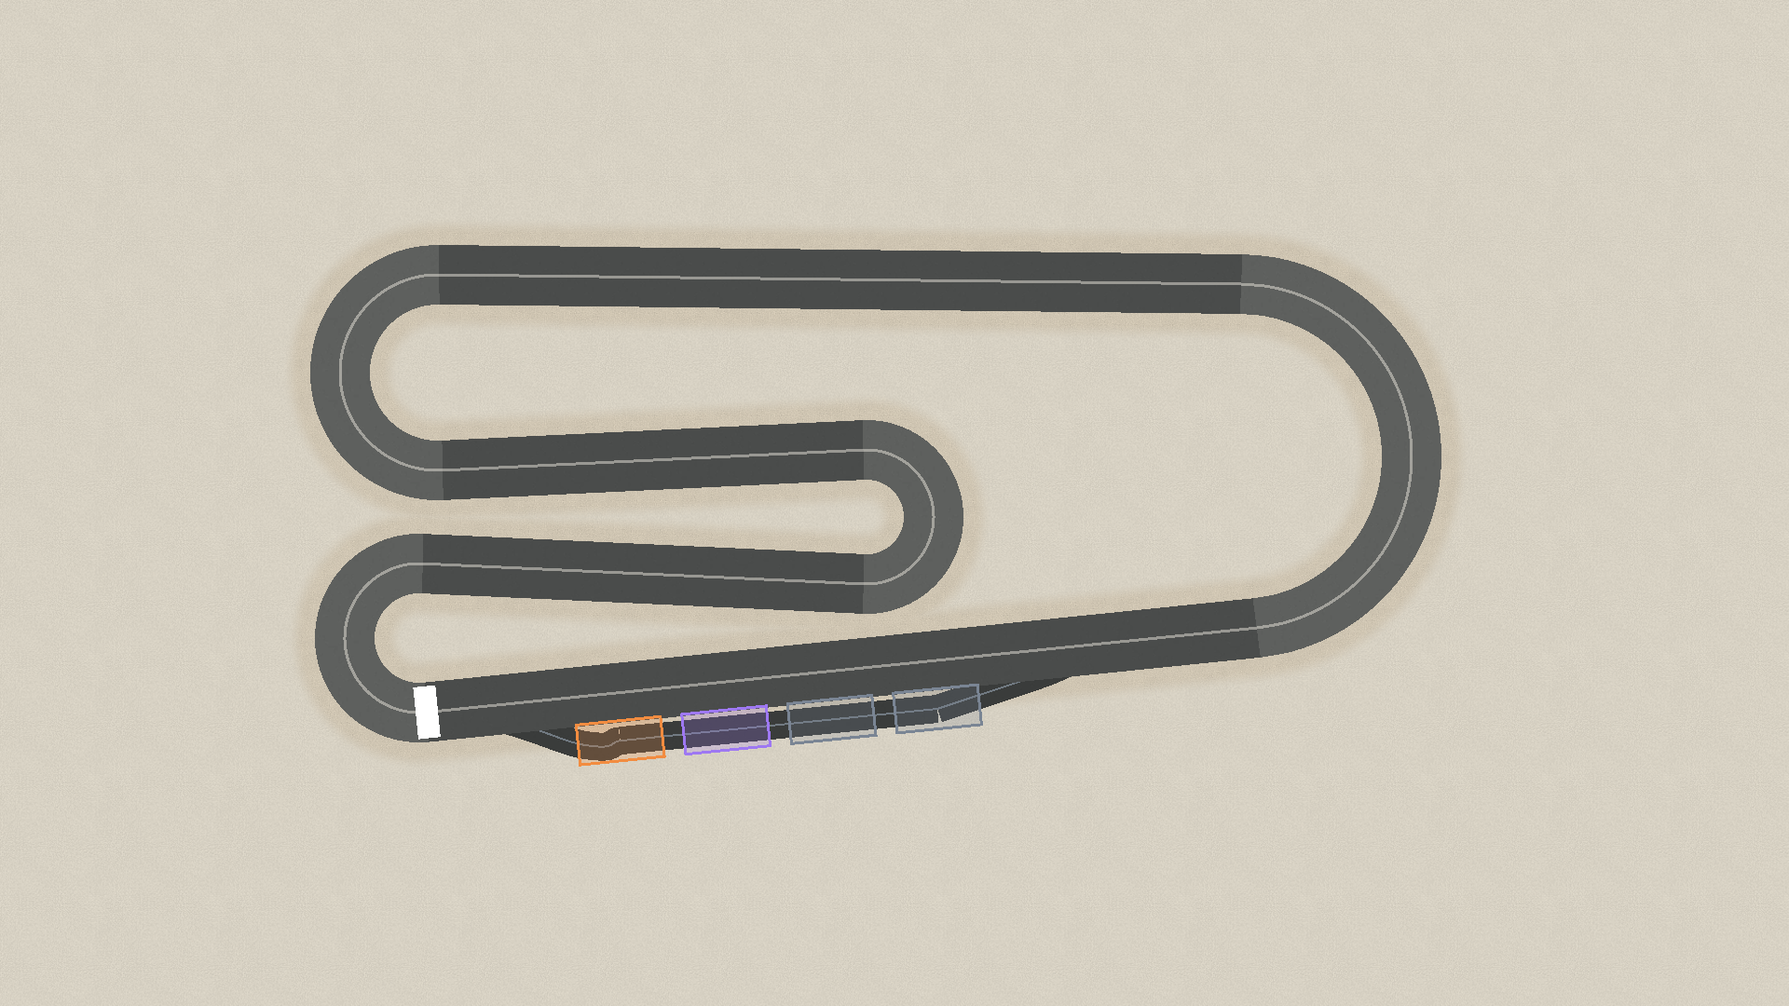
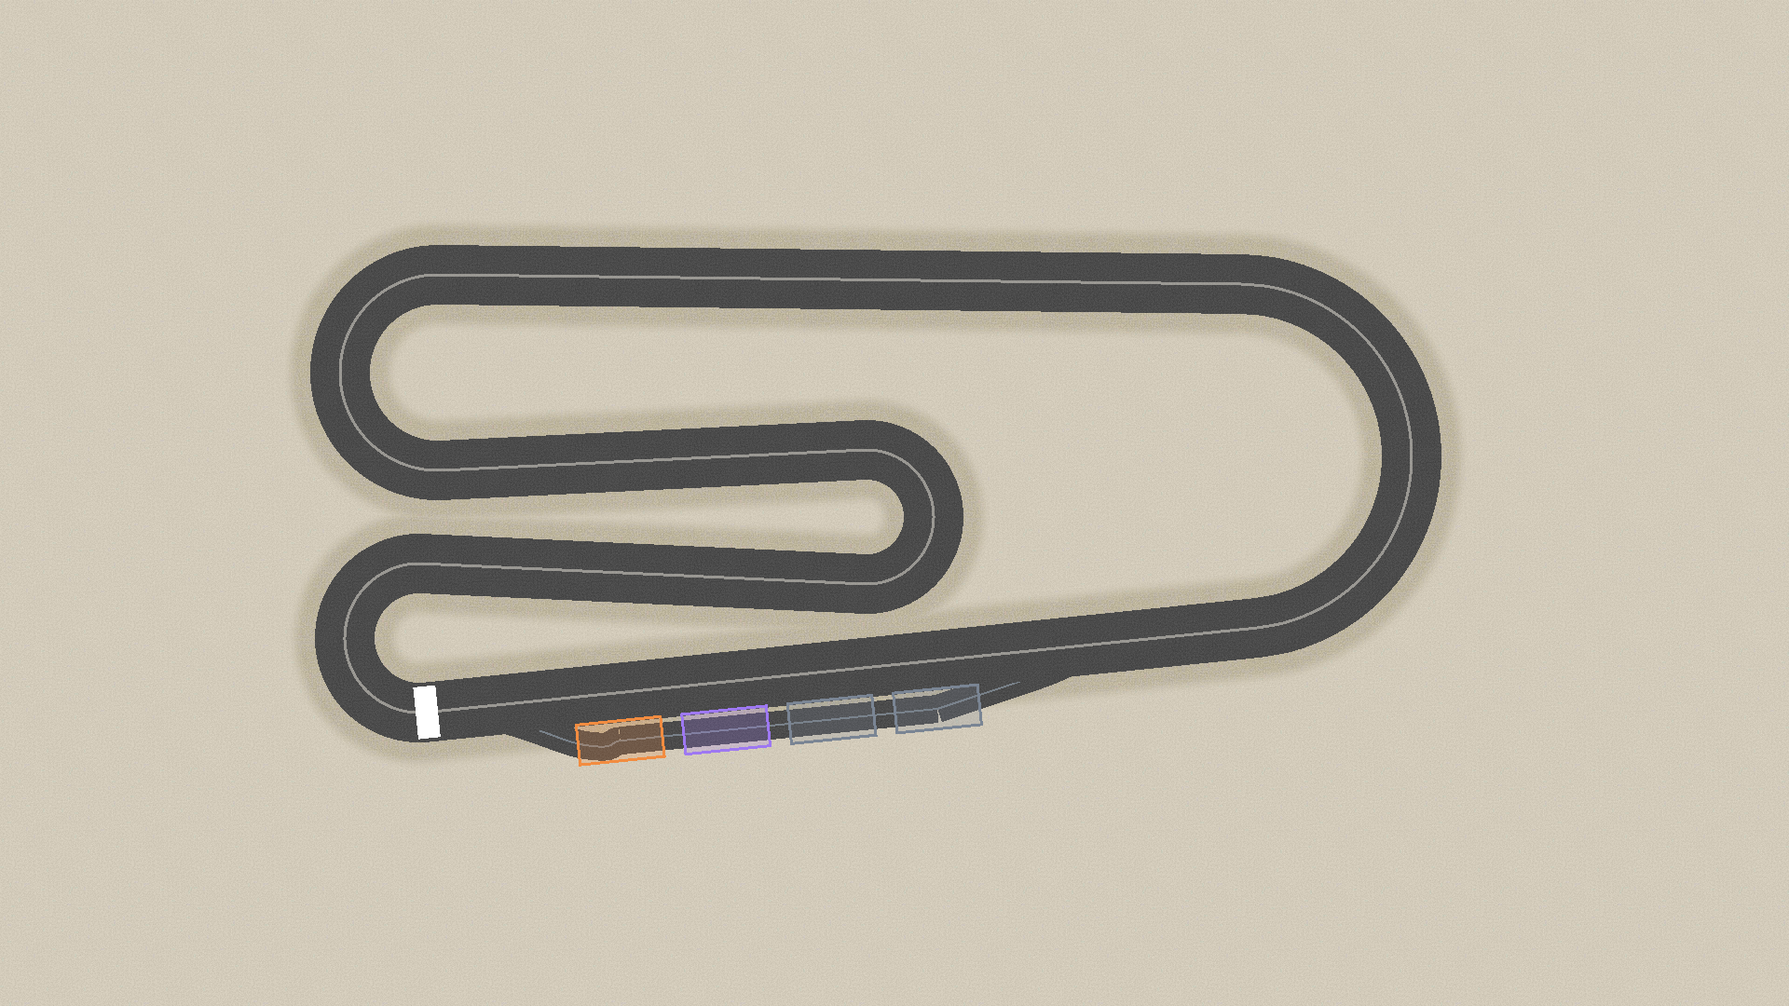
Give the detail tiles their own colour
Measured on the themed capture, the neutral-grain model delivered 10.3 levels
of variation to the ground and 1.0 to the road -- invisible. The cause was the
combine, not the art: multiplying a flat vertex colour by detail couples
absolute grain to base brightness, so a dark surface cannot receive much of it
however hard the tile is authored. The road tile in fact carried more amplitude
than the ground tile and still lost by ten times.

Colour therefore lives in the art now. A dark asphalt is authored with the
contrast it needs, and hue can vary at all -- greyscale times a colour can only
ever vary value, while real aggregate varies in hue. The per-surface tint is
retained as a grade on top rather than the colour source, and defaults to white:
pit lane and corners share the road tile ungraded, so every road-family surface
reads identically. That flat baseline is deliberate, so the raw assets can be
judged before any grading is layered on.

An unbound sampler reads white, which under the new combine would blow a surface
out rather than leave it alone. The shader is therefore told per surface whether
a tile exists and falls back to flat vertex colour where one does not, so a
partial theme degrades sensibly instead of catastrophically.

Source resolution now tracks tile size. The tiles were 256 px shown across 88 to
130 reference pixels -- a downscale, so the GPU picked a lower mip and averaged
the authored grain away: 13 levels became 5 on the ground, and the hue variation
[…]

diff --git a/Assets/BoardRacing/Runtime/RaceSurface.cs b/Assets/BoardRacing/Runtime/RaceSurface.cs
@@ -35,9 +35,13 @@ namespace BoardRacing.Runtime
         public static readonly SurfaceDetail Ground = new SurfaceDetail(0f, 0f, 1f);
         public static readonly SurfaceDetail Road = new SurfaceDetail(1f, 0f, 1f);
 
-        // Recorded mapping compromise (#161): the pit surface samples the road
-        // detail texture and is distinguished by its own tint, rather than
-        // spending a fourth sampler on a surface that is asphalt either way.
+        // The pit surface shares the road tile ungraded, so it is currently
+        // indistinguishable from the roadway while textured — a deliberate flat
+        // baseline for judging the raw assets (#161). Sharing a tile also keeps
+        // the grain flowing across the boundary, which reads as wear; giving
+        // pit its own tile would break the pattern there and read as a
+        // different material instead. Which of those is wanted is a call for
+        // the Board review.
         public static readonly SurfaceDetail PitSurface = Road;
 
         public static SurfaceDetail Shoulder(float weight) =>
@@ -211,7 +215,13 @@ namespace BoardRacing.Runtime
         [Min(1f)] public float GroundDetailTile;
         [Min(1f)] public float RoadDetailTile;
         [Min(1f)] public float ShoulderDetailTile;
-        [Range(0f, 2f)] public float DetailStrength;
+        // Grades on top of the authored tile color, not the color source.
+        // White is the baseline; pit lane and corners currently share the road
+        // tile ungraded so every road-family surface reads identically.
+        public Color GroundDetailTint;
+        public Color RoadDetailTint;
+        public Color ShoulderDetailTint;
+        [Range(0f, 1f)] public float DetailStrength;
 
         public static RaceSurfaceStyle Default => new RaceSurfaceStyle
         {
@@ -233,9 +243,15 @@ namespace BoardRacing.Runtime
             StripeVisible = true,
             PitSurfaceVisible = true,
             DebugView = RaceSurfaceDebugView.Composed,
-            GroundDetailTile = 130f,
-            RoadDetailTile = 88f,
-            ShoulderDetailTile = 110f,
+            // 1:1 with the 128 px source tiles. A tile shown smaller than its
+            // source is a downscale, and the mip that results averages the
+            // authored grain away — see Presentation/PROVENANCE.md.
+            GroundDetailTile = 128f,
+            RoadDetailTile = 128f,
+            ShoulderDetailTile = 128f,
+            GroundDetailTint = Color.white,
+            RoadDetailTint = Color.white,
+            ShoulderDetailTint = Color.white,
             // The committed default stays flat and textureless: the theme asset
             // is what opts a build into detail, so Default remains the
             // deterministic fallback the gallery captures compare against.
@@ -834,6 +850,12 @@ namespace BoardRacing.Runtime
         private static readonly int GroundTileId = Shader.PropertyToID("_GroundTile");
         private static readonly int RoadTileId = Shader.PropertyToID("_RoadTile");
         private static readonly int ShoulderTileId = Shader.PropertyToID("_ShoulderTile");
+        private static readonly int GroundTintId = Shader.PropertyToID("_GroundTint");
+        private static readonly int RoadTintId = Shader.PropertyToID("_RoadTint");
+        private static readonly int ShoulderTintId = Shader.PropertyToID("_ShoulderTint");
+        private static readonly int GroundOnId = Shader.PropertyToID("_GroundOn");
+        private static readonly int RoadOnId = Shader.PropertyToID("_RoadOn");
+        private static readonly int ShoulderOnId = Shader.PropertyToID("_ShoulderOn");
         private static readonly int DetailStrengthId = Shader.PropertyToID("_DetailStrength");
 
         private Material material;
@@ -922,16 +944,23 @@ namespace BoardRacing.Runtime
         {
             surfaceCamera.backgroundColor = style.GroundColor;
             if (material == null || !material.HasProperty(DetailStrengthId)) return;
-            // Mid grey, not the default white, for an unbound slot: the shader
-            // modulates by detail * 2, so grey is the identity and an unassigned
-            // texture leaves its surface exactly as flat as before.
-            material.SetTexture(GroundTexId, style.GroundDetail ?? Texture2D.grayTexture);
-            material.SetTexture(RoadTexId, style.RoadDetail ?? Texture2D.grayTexture);
-            material.SetTexture(ShoulderTexId, style.ShoulderDetail ?? Texture2D.grayTexture);
+            // The tiles carry color now, so an unbound slot cannot be made a
+            // no-op by binding a neutral texture: the shader is told per surface
+            // whether a tile exists and falls back to flat vertex color where
+            // one does not.
+            material.SetTexture(GroundTexId, style.GroundDetail ?? Texture2D.whiteTexture);
+            material.SetTexture(RoadTexId, style.RoadDetail ?? Texture2D.whiteTexture);
+            material.SetTexture(ShoulderTexId, style.ShoulderDetail ?? Texture2D.whiteTexture);
+            material.SetFloat(GroundOnId, style.GroundDetail != null ? 1f : 0f);
+            material.SetFloat(RoadOnId, style.RoadDetail != null ? 1f : 0f);
+            material.SetFloat(ShoulderOnId, style.ShoulderDetail != null ? 1f : 0f);
+            material.SetColor(GroundTintId, style.GroundDetailTint);
+            material.SetColor(RoadTintId, style.RoadDetailTint);
+            material.SetColor(ShoulderTintId, style.ShoulderDetailTint);
             material.SetFloat(GroundTileId, Mathf.Max(1f, style.GroundDetailTile));
             material.SetFloat(RoadTileId, Mathf.Max(1f, style.RoadDetailTile));
             material.SetFloat(ShoulderTileId, Mathf.Max(1f, style.ShoulderDetailTile));
-            material.SetFloat(DetailStrengthId, Mathf.Max(0f, style.DetailStrength));
+            material.SetFloat(DetailStrengthId, Mathf.Clamp01(style.DetailStrength));
         }
 
         public void AttachCar(PlayerId playerId, SurfaceMeshData body)

diff --git a/tools/generate_course_fpo_textures.py b/tools/generate_course_fpo_textures.py
@@ -6,11 +6,16 @@ filtering, and device performance for the approved Quarry direction (#162)
 before the project decides whether final textures are generated, commissioned,
 purchased, photographed, or drawn.
 
-They are neutral grain maps centred on mid grey, not coloured surfaces. The
-CourseSurface shader modulates the authored vertex colour by (detail * 2), so
-a flat 0.5 tile is a no-op and the theme's colours remain the thing that
-decides what a surface looks like. Keeping the tiles neutral is also what lets
-one texture be swapped without touching the palette.
+The tiles carry their own colour. An earlier revision kept them neutral and let
+the shader modulate a theme colour by them, which coupled absolute grain to base
+brightness: the road, being dark, received a tenth of the ground's variation
+from a tile authored with more amplitude, and read as flat. Authoring colour
+here means a dark asphalt gets the contrast it actually needs, and means hue can
+vary at all — greyscale times a colour can only ever vary value, and real
+aggregate varies in hue.
+
+Amplitudes below are therefore absolute 0-255 levels, not fractions of some base
+colour, and are per channel so flecks can lean warm or cool independently.
 
 Seamlessness is structural rather than fixed up afterwards: every blur is a
 wrap-around convolution (np.roll), so opposite edges are already continuous.
@@ -25,7 +30,12 @@ import pathlib
 import numpy as np
 from PIL import Image
 
-SIZE = 256
+# Source resolution tracks the tile's world size on purpose. A 256 px tile
+# shown across 130 reference pixels is a 2x downscale, so the GPU picks a
+# lower mip and averages the fine grain away -- measured, that cost the
+# ground 13 authored levels down to 5 on screen and erased the hue variation
+# entirely. At 1:1 the authored amplitude is what reaches the panel.
+SIZE = 128
 OUT = (pathlib.Path(__file__).resolve().parent.parent
        / "Assets/BoardRacing/Presentation/CourseSurface/Textures")
 
@@ -47,43 +57,63 @@ def normalised(field):
     return field / peak if peak > 1e-6 else field
 
 
-def grain(seed, fine, coarse, coarse_radius):
-    """Fine speckle plus low-frequency mottling, both zero-centred."""
-    rng = np.random.default_rng(seed)
+def speckle(rng):
     noise = rng.random((SIZE, SIZE)).astype(np.float32)
-    speckle = normalised(noise - wrap_blur(noise, 1))
-    field = speckle * fine
-    if coarse > 0:
-        blobs = rng.random((SIZE, SIZE)).astype(np.float32)
-        field = field + normalised(wrap_blur(blobs, coarse_radius) - 0.5) * coarse
-    return field
+    return normalised(noise - wrap_blur(noise, 1))
 
 
-def write(name, field):
-    grey = np.clip(0.5 + field, 0.0, 1.0) * 255.0
-    rgb = np.repeat(grey.astype(np.uint8)[:, :, None], 3, axis=2)
+def mottle(rng, radius):
+    blobs = rng.random((SIZE, SIZE)).astype(np.float32)
+    return normalised(wrap_blur(blobs, radius) - 0.5)
+
+
+def hexrgb(value):
+    value = value.lstrip("#")
+    return np.array([int(value[i:i + 2], 16) for i in (0, 2, 4)], dtype=np.float32)
+
+
+def tile(base, fine, coarse, coarse_radius, warm, seed):
+    """base colour + achromatic grain + an independent warm/cool hue drift."""
+    rng = np.random.default_rng(seed)
+    value = speckle(rng) * fine + mottle(rng, coarse_radius) * coarse
+    # A second, lower-frequency field pushes red up and blue down (or the
+    # reverse) so the surface varies in hue and not only in value.
+    hue = mottle(rng, coarse_radius * 2) * warm
+
+    rgb = np.repeat(base[None, None, :], SIZE, 0).repeat(SIZE, 1).copy()
+    rgb += value[:, :, None]
+    rgb[:, :, 0] += hue
+    rgb[:, :, 2] -= hue
+    return Image.fromarray(np.clip(rgb, 0, 255).astype(np.uint8))
+
+
+def write(name, image):
     path = OUT / name
-    Image.fromarray(rgb).save(path, "PNG")
-    span = grey.max() - grey.min()
-    print(f"{name}: {SIZE}x{SIZE}, level span {span:.0f}/255")
+    image.save(path, "PNG")
+    a = np.asarray(image).astype(float)
+    lum = a.mean(axis=2)
+    span = np.percentile(lum, 95) - np.percentile(lum, 5)
+    hue = (a.max(axis=2) - a.min(axis=2)).std()
+    print(f"{name:38s} mean {lum.mean():5.1f}  p5-p95 {span:4.1f} levels  "
+          f"hue-var {hue:4.2f}")
 
 
 TILES = {
-    # Limestone dust: fine and quiet. The ground is most of the board, so its
-    # grain has to survive being looked at without becoming noise.
-    "FPO_CourseGround_Limestone.png": dict(seed=11, fine=0.055, coarse=0.030,
-                                           coarse_radius=8),
-    # Dry slate asphalt: coarser aggregate, read at 88 px so roughly two
-    # repeats span the 64 px road.
-    "FPO_CourseRoad_Slate.png": dict(seed=12, fine=0.075, coarse=0.026,
-                                     coarse_radius=6),
-    # Gravel runoff: the coarsest of the three, so the shoulder still reads as
+    # Limestone dust. The ground is most of the board, so its grain has to
+    # survive being looked at without becoming noise.
+    "FPO_CourseGround_Limestone.png": dict(
+        base=hexrgb("#D2CCBD"), fine=9.0, coarse=6.0, coarse_radius=5, warm=4.0, seed=11),
+    # Dry slate asphalt, authored dark with its own contrast rather than
+    # relying on a tint to supply it.
+    "FPO_CourseRoad_Slate.png": dict(
+        base=hexrgb("#4A4C4B"), fine=11.0, coarse=7.0, coarse_radius=4, warm=3.0, seed=12),
+    # Gravel runoff, the coarsest of the three, so the shoulder still reads as
     # a different material where it meets the road edge.
-    "FPO_CourseShoulder_Gravel.png": dict(seed=31, fine=0.090, coarse=0.045,
-                                          coarse_radius=5),
+    "FPO_CourseShoulder_Gravel.png": dict(
+        base=hexrgb("#BFB5A1"), fine=14.0, coarse=10.0, coarse_radius=3, warm=6.0, seed=31),
 }
 
 if __name__ == "__main__":
     OUT.mkdir(parents=True, exist_ok=True)
     for name, spec in TILES.items():
-        write(name, grain(**spec))
+        write(name, tile(**spec))

diff --git a/Assets/BoardRacing/Tests/RaceSurfaceGeometryTests.cs b/Assets/BoardRacing/Tests/RaceSurfaceGeometryTests.cs
@@ -622,9 +622,9 @@ namespace BoardRacing.Tests
         private static RaceSurfaceStyle TexturedStyle()
         {
             RaceSurfaceStyle style = RaceSurfaceStyle.Default;
-            style.GroundDetail = Texture2D.grayTexture;
-            style.RoadDetail = Texture2D.grayTexture;
-            style.ShoulderDetail = Texture2D.grayTexture;
+            style.GroundDetail = Texture2D.whiteTexture;
+            style.RoadDetail = Texture2D.whiteTexture;
+            style.ShoulderDetail = Texture2D.whiteTexture;
             style.DetailStrength = 1f;
             return style;
         }
@@ -739,7 +739,7 @@ namespace BoardRacing.Tests
         {
             RaceSurfaceStyle before = TexturedStyle();
             RaceSurfaceStyle after = TexturedStyle();
-            after.RoadDetail = Texture2D.whiteTexture;
+            after.RoadDetail = Texture2D.blackTexture;
             after.RoadDetailTile = before.RoadDetailTile * 2f;
 
             SurfaceMeshData a = RaceSurfaceGeometry.Build(
@@ -748,8 +748,10 @@ namespace BoardRacing.Tests
                 Track, PitLayout(), new[] { Color.red, Color.blue }, after);
 
             // The swap test #161 asks for: a texture reference changes what the
-            // course looks like without moving a vertex or altering a colour,
-            // because tiling is resolved in the shader from world position.
+            // course looks like without moving a vertex or altering a vertex
+            // colour, because both tiling and the surface colour are resolved in
+            // the shader. Since #161's coloured-tile revision the swap changes
+            // colour too, so this pins the mesh, not the appearance.
             Assert.That(b.Vertices, Is.EqualTo(a.Vertices));
             Assert.That(b.Colors, Is.EqualTo(a.Colors));
             Assert.That(b.Details, Is.EqualTo(a.Details));
@@ -766,6 +768,11 @@ namespace BoardRacing.Tests
             Assert.That(flat.RoadDetail, Is.Null);
             Assert.That(flat.ShoulderDetail, Is.Null);
             Assert.That(flat.DetailStrength, Is.EqualTo(0f));
+            // Tints are grades on top of authored tile colour, so the baseline
+            // is white: pit lane and corners share the road tile ungraded.
+            Assert.That(flat.GroundDetailTint, Is.EqualTo(Color.white));
+            Assert.That(flat.RoadDetailTint, Is.EqualTo(Color.white));
+            Assert.That(flat.ShoulderDetailTint, Is.EqualTo(Color.white));
 
             SurfaceMeshData mesh = RaceSurfaceGeometry.Build(
                 Track, PitLayout(), new[] { Color.red, Color.blue }, flat);

diff --git a/Assets/BoardRacing/Runtime/CourseSurfaceTheme.cs b/Assets/BoardRacing/Runtime/CourseSurfaceTheme.cs
@@ -30,13 +30,13 @@ namespace BoardRacing.Runtime
         [Header("Ground")]
         public Color groundColor = RaceSurfaceGeometry.BackgroundColor;
         public Texture2D groundDetail;
-        [Min(1f)] public float groundDetailTile = 130f;
+        [Min(1f)] public float groundDetailTile = 128f;
 
         [Header("Road")]
         public Color straightRoadColor = RaceSurfaceGeometry.StraightColor;
         public Color cornerRoadColor = RaceSurfaceGeometry.CornerColor;
         public Texture2D roadDetail;
-        [Min(1f)] public float roadDetailTile = 88f;
+        [Min(1f)] public float roadDetailTile = 128f;
 
         [Header("Shoulder")]
         public Color shoulderColor = new Color(.28f, .24f, .18f, 1f);
@@ -44,7 +44,7 @@ namespace BoardRacing.Runtime
         [Min(0f)] public float shoulderSolidWidth = 12f;
         [Min(0f)] public float shoulderFeatherWidth = 24f;
         public Texture2D shoulderDetail;
-        [Min(1f)] public float shoulderDetailTile = 110f;
+        [Min(1f)] public float shoulderDetailTile = 128f;
 
         // The pit surface samples the road detail texture and is separated by
         // tint alone — a recorded mapping compromise (#161) rather than a
@@ -58,8 +58,14 @@ namespace BoardRacing.Runtime
         public Color stripeColor = RaceSurfaceGeometry.StripeColor;
         public Color crossingShadowColor = RaceSurfaceGeometry.CrossingShadowColor;
 
+        // Grades on top of the authored tile colors. White is the baseline —
+        // pit lane and corners share the road tile ungraded for now, so the raw
+        // assets can be judged before any grading is layered on.
         [Header("Detail")]
-        [Range(0f, 2f)] public float detailStrength = 1f;
+        public Color groundDetailTint = Color.white;
+        public Color roadDetailTint = Color.white;
+        public Color shoulderDetailTint = Color.white;
+        [Range(0f, 1f)] public float detailStrength = 1f;
 
         public static CourseSurfaceTheme Load() =>
             Resources.Load<CourseSurfaceTheme>(ResourcePath);
@@ -90,6 +96,9 @@ namespace BoardRacing.Runtime
             style.GroundDetailTile = groundDetailTile;
             style.RoadDetailTile = roadDetailTile;
             style.ShoulderDetailTile = shoulderDetailTile;
+            style.GroundDetailTint = groundDetailTint;
+            style.RoadDetailTint = roadDetailTint;
+            style.ShoulderDetailTint = shoulderDetailTint;
             style.DetailStrength = detailStrength;
             return style;
         }

diff --git a/Assets/BoardRacing/Tests/CourseSurfaceComposerTests.cs b/Assets/BoardRacing/Tests/CourseSurfaceComposerTests.cs
@@ -41,10 +41,11 @@ namespace BoardRacing.Tests
             Assert.That(style.ShoulderOpacity, Is.EqualTo(.1f).Within(.001f));
             Assert.That(style.ShoulderSolidWidth, Is.EqualTo(16f));
             Assert.That(style.ShoulderFeatherWidth, Is.EqualTo(28f));
-            // Tile sizes are reference pixels: 130/88/110 committed, stepped 16.
-            Assert.That(style.GroundDetailTile, Is.EqualTo(146f));
-            Assert.That(style.RoadDetailTile, Is.EqualTo(72f));
-            Assert.That(style.ShoulderDetailTile, Is.EqualTo(126f));
+            // Tile sizes are reference pixels. The committed baseline is 128
+            // for all three — 1:1 with the 128 px source tiles — stepped by 16.
+            Assert.That(style.GroundDetailTile, Is.EqualTo(144f));
+            Assert.That(style.RoadDetailTile, Is.EqualTo(112f));
+            Assert.That(style.ShoulderDetailTile, Is.EqualTo(144f));
             Assert.That(style.StripeVisible, Is.False);
             Assert.That(style.PitSurfaceVisible, Is.False);
             Assert.That(style.DebugView, Is.EqualTo(RaceSurfaceDebugView.ShoulderOnly));
@@ -137,7 +138,7 @@ namespace BoardRacing.Tests
             committed.GroundDetail = Texture2D.grayTexture;
             committed.RoadDetail = Texture2D.grayTexture;
             committed.DetailStrength = 1f;
-            committed.GroundDetailTile = 130f;
+            committed.GroundDetailTile = 128f;
             committed.ShoulderOpacity = 1f;
 
             RaceSurfaceStyle last = default;
@@ -148,11 +149,11 @@ namespace BoardRacing.Tests
             panel.CreateContent(holder.GetComponent<RectTransform>());
 
             panel.HandlePress(CourseSurfaceComposerPanel.ReferencePlusBounds(4).center);
-            Assert.That(last.GroundDetailTile, Is.EqualTo(146f), "tile step should apply");
+            Assert.That(last.GroundDetailTile, Is.EqualTo(144f), "tile step should apply");
 
             panel.HandlePress(CourseSurfaceComposerPanel.ReferenceResetBounds.center);
 
-            Assert.That(last.GroundDetailTile, Is.EqualTo(130f));
+            Assert.That(last.GroundDetailTile, Is.EqualTo(128f));
             Assert.That(last.DetailStrength, Is.EqualTo(1f));
             Assert.That(last.ShoulderOpacity, Is.EqualTo(1f));
             Assert.That(last.GroundDetail, Is.Not.Null,

diff --git a/Assets/BoardRacing/Presentation/PROVENANCE.md b/Assets/BoardRacing/Presentation/PROVENANCE.md
@@ -34,16 +34,28 @@ so every tile is reproducible from the repository alone:
 python3 tools/generate_course_fpo_textures.py
 ```
 
-## Why the tiles are grey
+## Why the tiles carry their own colour
 
-They are neutral grain maps centred on mid grey, not coloured surfaces. The
-shader modulates the authored vertex colour by `detail * 2`, so a flat 0.5 tile
-is a no-op and the theme's colours stay the thing that decides what a surface
-looks like.
+An earlier revision kept them neutral and let the shader modulate a theme colour
+by them. Measured on the themed capture, that delivered 10.3 levels of variation
+to the ground and **1.0 level** to the road — invisible — because the combine was
+multiplicative and absolute grain therefore scaled with base brightness. The road
+tile was authored with *more* amplitude than the ground tile and still lost by
+10×.
 
-This is what makes the swap test in #161 meaningful: changing a texture
-reference on the theme changes the surface without touching mesh generation,
-shader, or gameplay code, and without disturbing the palette.
+Colour now lives in the art. A dark asphalt can be authored with the contrast it
+actually needs, and hue can vary at all: greyscale times a colour can only ever
+vary value, while real aggregate varies in hue too.
+
+The per-surface tint in the theme is a grade on top, not the colour source, and
+defaults to white. Pit lane and corners currently share the road tile ungraded,
+so every road-family surface renders identically — a deliberate flat baseline
+for judging the raw assets before any grading is layered on.
+
+One consequence, recorded rather than left to erode: the swap test in #161 is
+still literally true — a texture reference can be replaced without touching
+mesh, shader, or gameplay code — but weaker in spirit, because swapping a tile
+now changes colour as well as grain.
 
 ## Import settings (pinned, not editor defaults)
 
